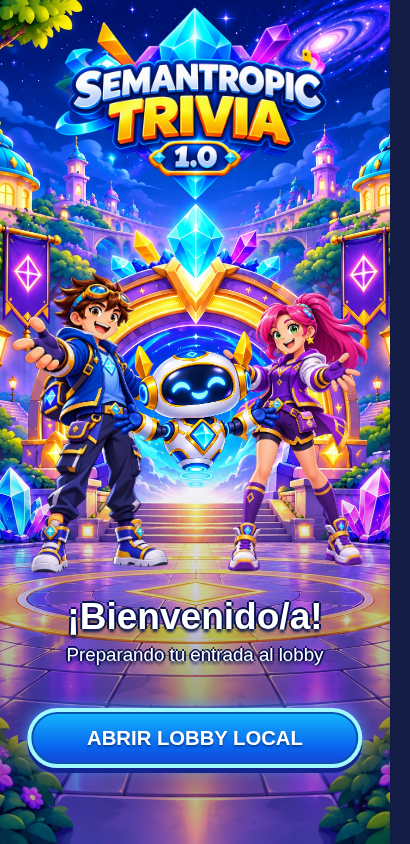
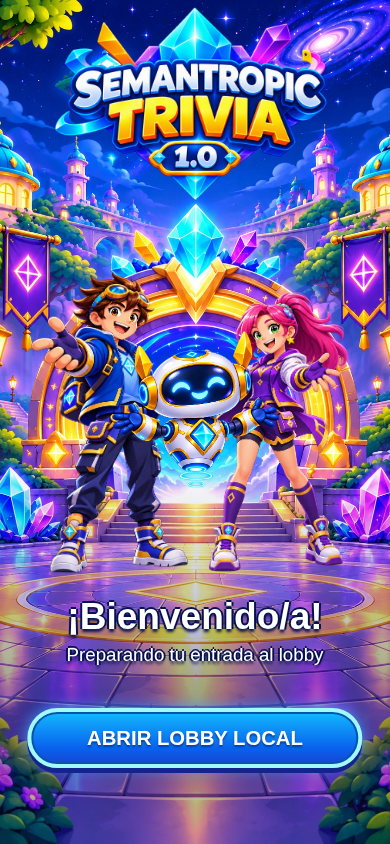
fix(b04): contener protagonistas móviles y cerrar QA visual

diff --git a/src/ui/access/lobby-transition-option-c.css b/src/ui/access/lobby-transition-option-c.css
@@ -137,8 +137,8 @@
 @media(max-aspect-ratio:4/5){
  .b04-option-c .b04-option-c__logo{width:76%;height:24%;top:max(4px,env(safe-area-inset-top))}
  .b04-option-c__character{width:62%;height:55%;bottom:32%}
- .b04-option-c__male{left:-5%}
- .b04-option-c__female{right:-5%;width:58%}
+ .b04-option-c__male{left:0}
+ .b04-option-c__female{right:0;width:58%}
  .b04-option-c__robot{left:27%;width:46%;height:30%;bottom:40%}
  .b04-option-c__copy{bottom:21%;left:3%;width:94%}
  .b04-option-c__copy h1{font-size:clamp(30px,9.5vw,48px)}

diff --git a/docs/art/B04_REFINAMIENTO_20261106.md b/docs/art/B04_REFINAMIENTO_20261106.md
@@ -24,7 +24,7 @@ Arranque en Codex Cloud: desde `/workspace/semantropic-trivia-next`, `npm run de
 
 ## Integración y límites externos
 
-Destino permanente de revisión: PR #23 → staging → Render DEV existente. Main y producción quedan intactos. API GitHub/GraphQL responde Forbidden; Render DEV devuelve CONNECT 403 por política de red. No se afirma CI remoto, merge ni publicación sin verificarlos. El enlace DEV conocido no demuestra que este refinamiento esté desplegado. No se crean servicios ni se modifican políticas de red o credenciales.
+Destino permanente de revisión: PR #23 → staging → Render DEV existente. Main y producción quedan intactos. API GitHub/GraphQL responde Forbidden; Render DEV devuelve CONNECT 403 por política de red. Se observó el inicio de los seis jobs remotos tras corregir el YAML; el HEAD final debe completar sus propios checks. No se afirma CI completa, merge ni publicación sin verificarlos. El enlace DEV conocido no demuestra que este refinamiento esté desplegado. No se crean servicios ni se modifican políticas de red o credenciales.
 
 ## Validación ejecutada en Codex Cloud
 
@@ -33,3 +33,14 @@ Destino permanente de revisión: PR #23 → staging → Render DEV existente. Ma
 - Chromium B04-C3: 54 vistas, seis recorridos, 18 comparaciones en 320×740, 390×844, 844×390, 768×1024, 1366×900 y 1920×1080. Cero errores JS/HTTP y cero solicitudes de mutación/autenticación. D-049 con píxeles protegidos idénticos; botones/sidebar/slots B02 sin desplazamiento. Validación, teclado, contraseñas y altura de teclado emulado comprobados. Resultado JSON adjunto en la carpeta de comparativas.
 - Smoke B02: diez preguntas, seis categorías, resultado/reinicio y navegación PASS en escritorio, 390 y 320. No se confunde con partida online.
 - Herramientas QA externas al manifiesto del proyecto; Chromium del sistema, sin desactivar TLS ni modificar dependencias versionadas. Versión local Node 24.19.0; CI del repositorio conserva Node 22.16.0 y debe aprobar su propio HEAD antes de integrar.
+
+
+## Controles de cierre adicionales
+
+Smoke Arena B03-C3/HF1 PASS en 1366×900, 390×844, 320×740 y 844×390: reloj/arco, teclado/tacto emulado, diez respuestas, agotamiento, pausa/reanudación, duplicados, reinicio y regreso. No se modifica su implementación.
+
+Se detectó y corrigió un error YAML heredado de CP01: el nombre del paso «Acceso y ART-CP01: navegación…» necesitaba comillas para poder ejecutar el workflow obligatorio. Parser YAML PASS y GitHub confirma que el job official-home ahora se inicia. No se eliminan checks ni se relajan protecciones. La interfaz web permite observar ejecuciones; la API necesaria para administrar el PR sigue Forbidden.
+
+El QA de acceso detectó cajas de personajes móviles parcialmente fuera de la escena después del ajuste inicial; se corrigieron sus márgenes a cero sin modificar imágenes ni reducir el control existente. Las capturas y pruebas finales corresponden a esa corrección.
+
+QA visual de acceso adicional PASS: 48 vistas y seis recorridos transición/lobby/Arena; personajes dentro de escena, un logo, tres identidades, CTA táctil, fondo por breakpoint, sin overflow, errores JS ni solicitudes de autenticación.
